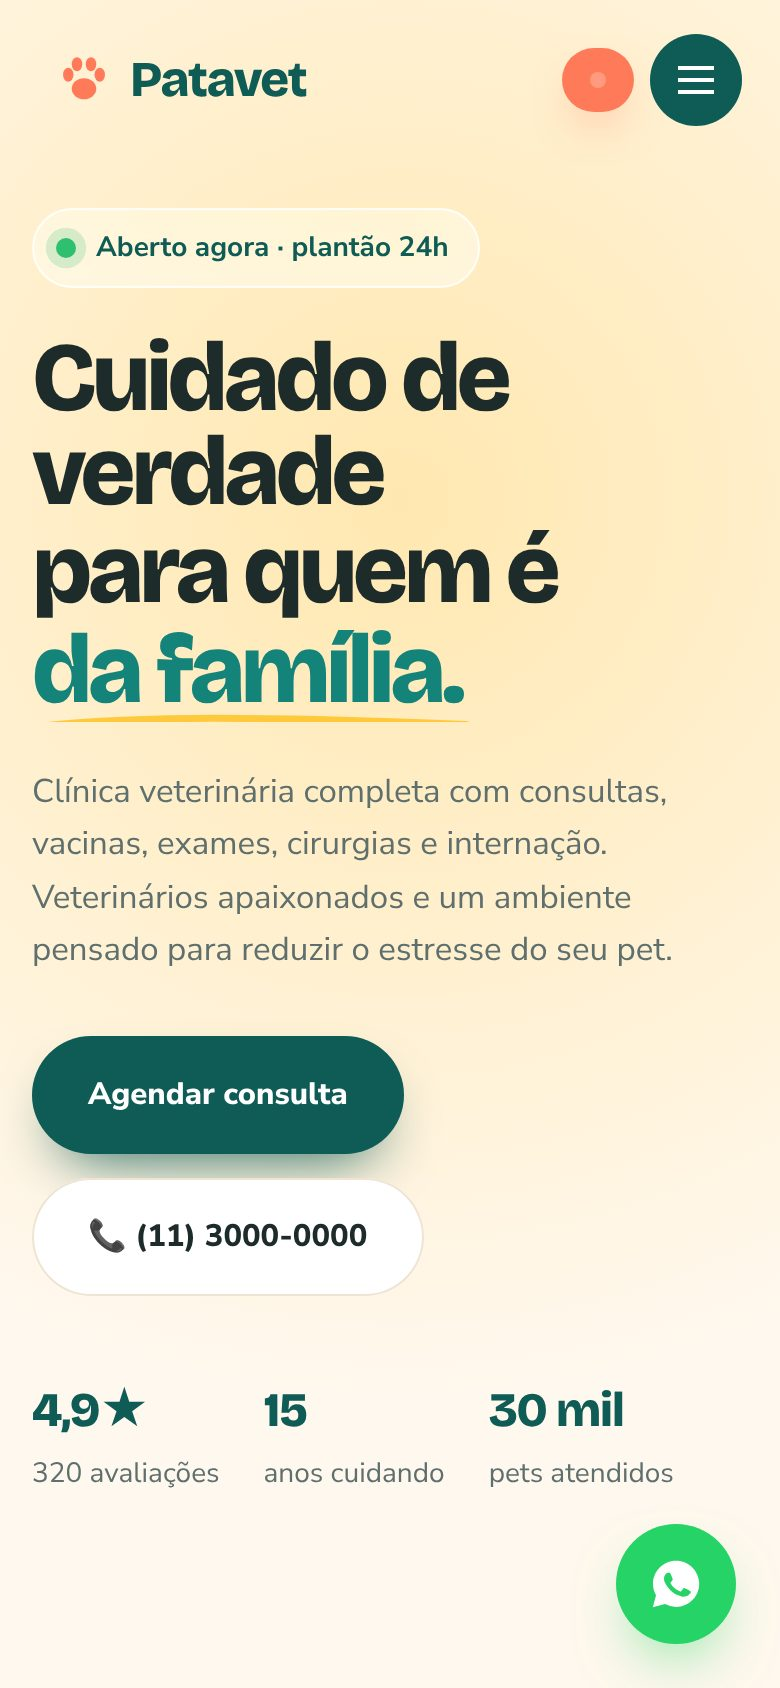
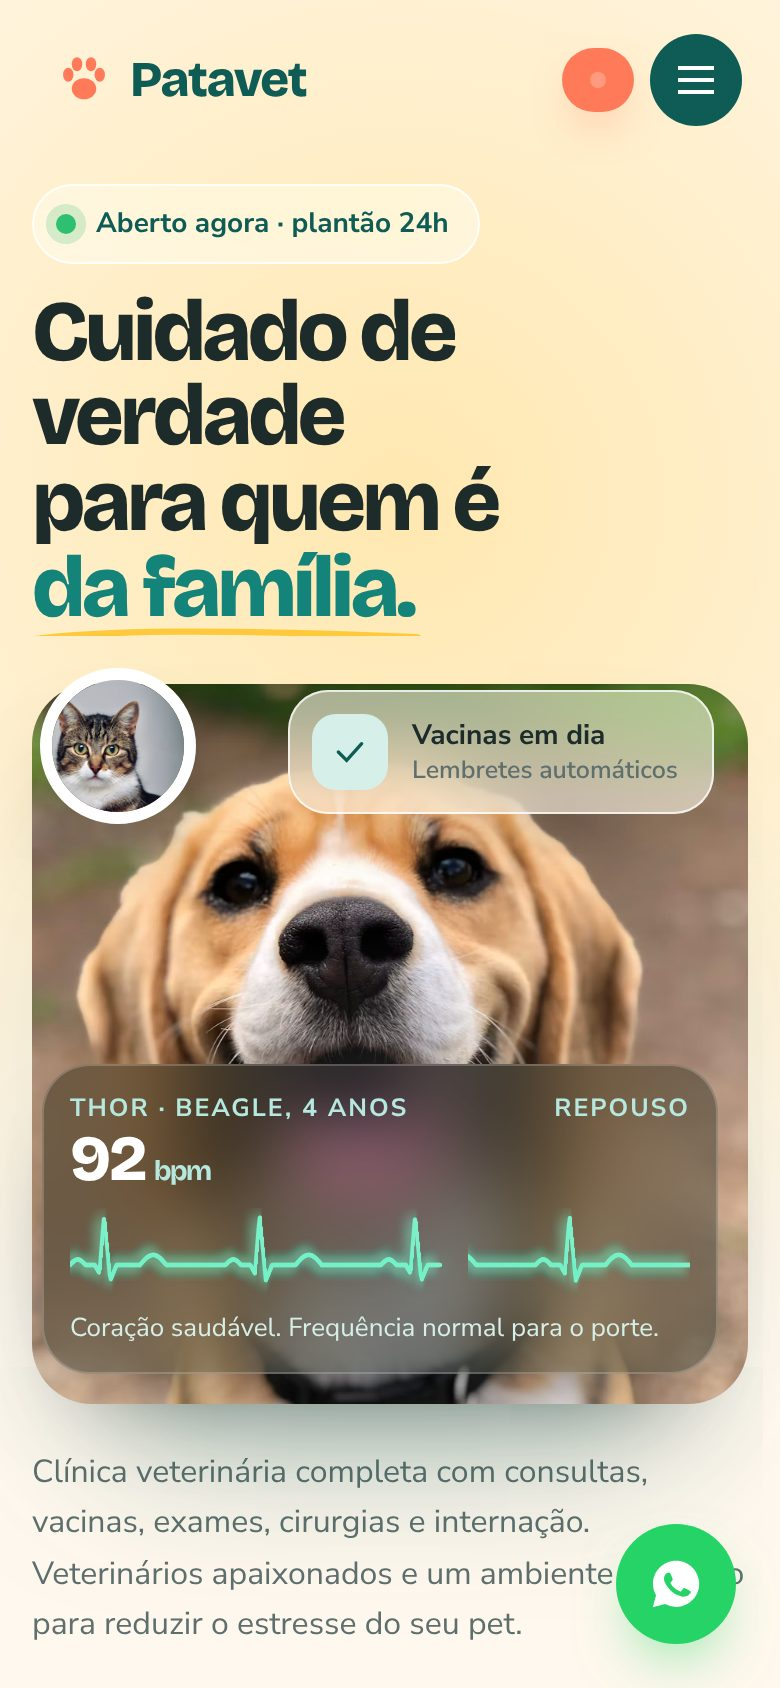
Patavet: revisão do layout mobile com carrosséis e hero reorganizado
Claude-Session: https://claude.ai/code/session_01QmiPwcu1vZC3FNQj5DnVy9

diff --git a/modelos/patavet-veterinaria/index.html b/modelos/patavet-veterinaria/index.html
@@ -320,6 +320,61 @@
     .form { padding: 20px; }
     footer { border-radius: 30px 30px 0 0; }
   }
+
+  /* ===== Celular: hierarquia, respiro e carrosséis ===== */
+  @media (max-width: 900px) {
+    /* hero: título, foto, texto, ações e números em faixa */
+    .hero { padding: 92px 0 40px; }
+    .hero__grid { gap: 0; }
+    .hero__grid > div:first-child { display: contents; }
+    .hero .status { order: 1; justify-self: start; }
+    .hero h1 { order: 2; font-size: clamp(38px, 11vw, 54px); margin: 14px 0 18px; }
+    .exame { order: 3; height: 360px; margin: 6px 0 22px; }
+    .hero__lead { order: 4; font-size: 16px; }
+    .hero__ctas { order: 5; display: grid; grid-template-columns: 1.2fr 1fr; gap: 8px; margin-top: 20px; }
+    .hero__ctas .btn { justify-content: center; padding: 15px 10px; font-size: 14.5px; white-space: nowrap; }
+    .mini { order: 6; display: grid; grid-template-columns: repeat(3, 1fr); gap: 0; margin-top: 18px; padding: 14px 6px; border-radius: 22px; background: rgba(255,255,255,.6); backdrop-filter: blur(14px); -webkit-backdrop-filter: blur(14px); box-shadow: inset 0 0 0 1px rgba(255,255,255,.8), 0 16px 30px -22px rgba(16,61,56,.4); }
+    .mini > div { text-align: center; padding: 0 4px; }
+    .mini > div + div { border-left: 1px solid rgba(16,61,56,.12); }
+    .mini b { font-size: 22px; } .mini span { font-size: 12px; line-height: 1.25; display: block; }
+    .gato { width: 78px; left: -4px; top: -16px; }
+    .tv1 { top: 10px; right: 10px; transform: scale(.88); transform-origin: top right; }
+    .dica-ex { display: none; }
+
+    /* cabeçalhos de seção mais compactos e com respiro */
+    .head { margin-bottom: 26px; gap: 10px; }
+    .head p { font-size: 15px; }
+    .h2 { font-size: clamp(30px, 8.6vw, 40px); }
+    .services, .team, .plans, .love, .book { padding-top: 76px; padding-bottom: 76px; }
+
+    /* carrosséis horizontais com encaixe */
+    .rolo { display: flex !important; gap: 12px; overflow-x: auto; overscroll-behavior-x: contain; scroll-snap-type: x mandatory; scroll-padding-left: 16px; margin: 0 -16px; padding: 6px 16px 10px; scrollbar-width: none; }
+    .rolo::-webkit-scrollbar { display: none; }
+    .rolo > * { scroll-snap-align: start; flex: 0 0 76%; }
+    .rolo [data-r], .rolo[data-r] { opacity: 1 !important; transform: none; filter: none; }
+    .pontos-m { display: flex; justify-content: center; gap: 6px; margin-top: 12px; }
+    .pontos-m i { width: 7px; height: 7px; border-radius: 99px; background: rgba(16,61,56,.18); transition: width .35s var(--ease), background .35s; }
+    .pontos-m i.on { width: 22px; background: var(--teal); }
+    .plans .pontos-m i { background: rgba(255,255,255,.3); } .plans .pontos-m i.on { background: var(--sun); }
+    .svc > .card { flex-basis: 64%; min-height: 210px; }
+    .card p { font-size: 14px; }
+    .vets > .vet { flex-basis: 74%; }
+    .plans__grid > .plan { flex-basis: 84%; }
+    .plans__grid { padding-top: 22px; }
+
+    /* vacinas: linha do tempo vira trilho horizontal */
+    .timeline { padding-left: 16px; }
+    .timeline::before, .timeline::after, .tl::before { display: none; }
+    .timeline > .tl { flex-basis: 70%; margin: 0; padding: 18px; display: flex; flex-direction: column; gap: 6px; }
+    .tl b { font-size: 22px; }
+    .vac__grid > div:first-child { margin-bottom: 18px; }
+
+    /* 24 horas: relógio menor, sem brigar com o título */
+    .dia__esq .h2 { font-size: 30px; }
+    .relogio { width: 104px; height: 104px; margin: 4px 0 8px 10px; }
+    .relogio .ponteiro { height: 38px; margin-top: -38px; } .relogio .min { height: 44px; margin-top: -44px; }
+    .relogio b { font-size: 15px; bottom: 18px; }
+  }
   @media (prefers-reduced-motion: reduce) { *, *::before, *::after { animation-duration: .01ms !important; animation-delay: 0s !important; transition-duration: .01ms !important; } [data-r] { opacity: 1; transform: none; filter: none; } .hero h1 .l > span { transform: none; } .hero h1 em path { stroke-dashoffset: 0; } }
 </style>
 </head>
@@ -719,6 +774,23 @@
   addEventListener("resize", () => { VW = innerWidth; VH = innerHeight; eres(); });
   requestAnimationFrame(quadro);
 })();
+
+  /* celular: carrosséis com pontos */
+  (() => {
+    const lista = [document.getElementById("svc"), document.getElementById("tl"), document.getElementById("vets"), document.querySelector(".plans__grid")].filter(Boolean);
+    const mq = matchMedia("(max-width: 900px)");
+    lista.forEach((el) => {
+      el.classList.add("rolo");
+      const p = document.createElement("div"); p.className = "pontos-m"; p.setAttribute("aria-hidden", "true"); el.after(p);
+      const desenha = () => { const n = el.children.length; if (p.children.length !== n) p.innerHTML = "<i></i>".repeat(n); const w = el.firstElementChild ? el.firstElementChild.offsetWidth + 12 : 1; const k = Math.round(el.scrollLeft / w); [...p.children].forEach((d, i) => d.classList.toggle("on", i === Math.min(n - 1, k))); };
+      el.addEventListener("scroll", desenha, { passive: true });
+      new MutationObserver(() => { el.scrollLeft = 0; desenha(); }).observe(el, { childList: true });
+      addEventListener("resize", desenha); desenha();
+    });
+    /* nos planos, começa no favorito */
+    const pg = document.querySelector(".plans__grid"), best = pg && pg.querySelector(".best");
+    if (mq.matches && best) addEventListener("load", () => { pg.scrollLeft = best.offsetLeft - 16; });
+  })();
 </script>
 </body>
 </html>
